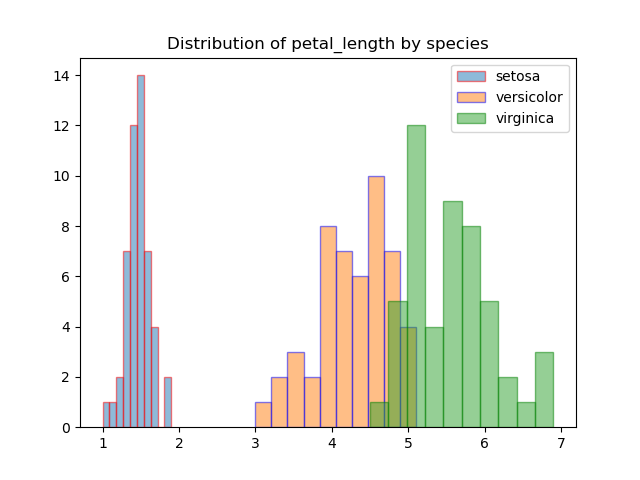
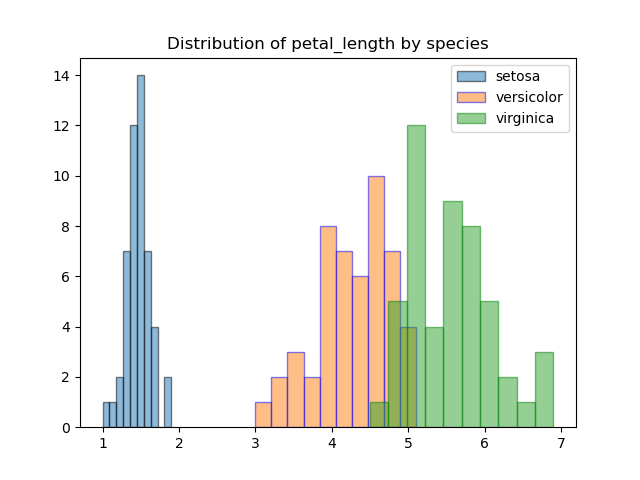
Summary notes, tidying up code and final histogram images

Changed region(s): [[0.1562, 0.1562, 0.2812, 0.9062], [0.7188, 0.125, 0.7812, 0.1875]]

diff --git a/histogram.py b/histogram.py
@@ -10,7 +10,7 @@ import seaborn as sns
 iris_csv = pd.read_csv("iris.csv")
 iris_csv = np.array(iris_csv)
 
-# creates a set filter for each variable
+# creates a set filter for each variable, method came from the Tutorials Point link in the README
 set_filter = iris_csv[:,4]=="setosa"
 ver_filter = iris_csv[:,4]=="versicolor"
 vir_filter = iris_csv[:,4]=="virginica"
@@ -20,8 +20,16 @@ set_data = iris_csv[set_filter]
 ver_data = iris_csv[ver_filter]
 vir_data = iris_csv[vir_filter]
 
-# assigns each variable a value, with the user-selected item to be defined as the y-axis in the resulting box-and-whisker
-# if you want these in the same order as in distribution.py, you'll need to add headers back into the filtered items, then you'll be able to ref them
+# input for user to select which variable they wish to see
+userInput = int(input("Select a variable from the list to view its distribution (0: sepal length, 1: sepal width, 2: petal length, 3: petal width): "))
+
+# one histogram per variable, plotted on a single chart
+plt.hist(set_data[0:,userInput], alpha=0.5, edgecolor="black", label="setosa")
+plt.hist(ver_data[0:,userInput], alpha=0.5, edgecolor="blue", label="versicolor")
+plt.hist(vir_data[0:,userInput], alpha=0.5, edgecolor="green", label="virginica")
+
+# a dictionary of varible names for use in the title of the plot amd the saved filename
+# if you want these in the same order as in distribution.py, you'll need to add headers back into the filtered items, then you'll be able to reference
 varIndex = {
     0: "sepal_length",
     1: "sepal_width",
@@ -29,19 +37,11 @@ varIndex = {
     3: "petal_width"
     }
 
-# input for user to select which variable they wish to see
-userInput = int(input("Select a variable from the list to view its distribution (0: sepal length, 1: sepal width, 2: petal length, 3: petal width): "))
-
-# one histogram per variable, plotted on a single chart
-plt.hist(set_data[0:,userInput], alpha=0.5, edgecolor="red", label="setosa")
-plt.hist(ver_data[0:,userInput], alpha=0.5, edgecolor="blue", label="versicolor")
-plt.hist(vir_data[0:,userInput], alpha=0.5, edgecolor="green", label="virginica")
-plt.title(f"Distribution of {varIndex[userInput]} by species")
-plt.legend()
-
-# saves a filename that includes the user's selected variable name to a child directory of the current directory
+# saves a filename that includes the user's selected variable name (from the dictionary above) to a child directory of the current directory
 # this method of generating a unique filename and saving it to a separate location both came from a StackOverflow article in the README
 filename = f"hist_{varIndex[userInput]}.png"
 path = "./images/"
 filepath = os.path.join(path, filename)
+plt.title(f"Distribution of {varIndex[userInput]} by species")
+plt.legend()
 plt.savefig(filepath)

diff --git a/README.md b/README.md
@@ -15,14 +15,25 @@ There is also an argument, summarised nicely by Timothée Poisot at [Armchair Ec
 
 The data itself consists of the length and width of two separate parts of an iris flower, the petal and the sepal. Fisher and his research partner Anderson measured 150 individuals plants, and these are divided evenly between three species of iris: setosa, versicolor and virginica. The overall conclusion of the data as presented by Fisher was that while one species, iris setosa, can be distinguished from the others by assessing any of the four variables presented, there are varying degrees of uncertainty between iris versicolor and iris virginica.
 
-## Findings 
+## Methodology and Findings
 
 As expected, there will be no ground-breaking contribution to the fields of botany or biology within this GitHub repository. Within my initial investigations, a [scatter plot](https://en.wikipedia.org/wiki/Iris_flower_data_set) on the dataset's Wikipedia page provided a compact summary of this data, which I have attempted to reproduce in the [pairplot](pairplot.py) program. >>> Description of seaborn process, this was actually the last task I accomplished.
 
-findings arising from [analysis](analysis.py)
+### Findings arising from [analysis](analysis.py)
 
-findings arising from [distribution](distribution.py)
+>>>
 
+### Findings arising from [histogram](histogram.py)
+
+Using guidance from the initial project brief, I then attempted to create a histogram that would display the distribution of measurements by variable. Similar to analysis.py, I used the pandas read_csv function and the numPy array function, and then created a unique dataset for each species by filtering and slicing the original dataset, and assigning this to a new variable. A user-inputted selection determines the variable to be plotted, a filename is determined based on this selection, and os.path.join is used to add the completed plot to the images sub-folder. The histograms are probably best used when plotting a single variable, or multiple-variables that do not overlap, but I found that I had to customise the settings of the plots (see the Geeksforgeeks article in the Formatting Plots section of the References below) to get overlapping data even remotely visible, particular when plotting sepal data.
+
+### Findings arising from [distribution](distribution.py)
+
+>>>
+
+### Findings arising from [summary](summary.pp)
+
+>>>
 
 ## Software Packages
 
@@ -45,43 +56,42 @@ All analysis within this project was undertaken using Python, specifically the b
 
 ## References
 
-Isolating specific columns in a numPy array:
+### Isolating specific columns in a numPy array:
 - Zach (2021) How to Get Specific Column from NumPy Array. Statology. URL: https://www.statology.org/numpy-get-column/
 
-Reading CSV files in matplotlib:
+### Reading CSV files in matplotlib:
 - Tutorial Points (n.d.) Plot data from CSV file with Matplotlib. URL: https://www.tutorialspoint.com/plot-data-from-csv-file-with-matplotlib
 - W3Schools (n.d.) Matplotlib Tutorial. URL: https://www.w3schools.com/python/matplotlib_intro.asp
 
-Plotting items by group:
+### Plotting items by group:
 - W3Schools (n.d.) Matplotlib Scatter. URL: https://www.w3schools.com/python/matplotlib_scatter.asp
 
-Filtering with pandas: 
-- Tutorials Point (n.d.) Filter the rows – Python Pandas. URL: https://www.tutorialspoint.com/filter-the-rows-python-pandas
+### Filtering with pandas: 
 - Python and R Tips (2018) How To Filter Pandas Dataframe By Values of Column? URL: https://cmdlinetips.com/2018/02/how-to-subset-pandas-dataframe-based-on-values-of-a-column/
+- Tutorials Point (n.d.) Filter the rows – Python Pandas. URL: https://www.tutorialspoint.com/filter-the-rows-python-pandas
 
-Subplots:
+### Subplots:
 - GeeksforGeeks (2021) Plot multiple plots in Matplotlib. URL: https://www.geeksforgeeks.org/plot-multiple-plots-in-matplotlib/
 
-Formatting plots:
+### Formatting plots:
+- GeeksforGeeks (2020) How to plot two histograms together in Matplotlib? URL: https://www.geeksforgeeks.org/how-to-plot-two-histograms-together-in-matplotlib/
 - Matplotlib (n.d.) matplotlib.pyplot.ylabel — Matplotlib 3.5.1 documentation. URL: https://matplotlib.org/stable/api/_as_gen/matplotlib.pyplot.ylabel.html
-Context on dataset:
-- Cui, Y. (2020) The Iris Dataset — A Little Bit of History and Biology. Medium. URL: https://towardsdatascience.com/the-iris-dataset-a-little-bit-of-history-and-biology-fb4812f5a7b5.
 
-Colour-blind-friendly colour palette: 
+### Colour-blind-friendly colour palette: 
 - Color Hex (n.d.) color-blind-friendly Color Palette. URL: https://www.color-hex.com/color-palette/49436
 
-Seaborn tutorial
+### Seaborn tutorial
 - AskPython (2020) Python Seaborn Tutorial. URL: https://www.askpython.com/python-modules/python-seaborn-tutorial
 
-Saving files in a new location:
- 
+### Saving files in a new location:
 - Stack Overflow (2012) filesystems - Python: how do I save a file in a different directory? URL: https://stackoverflow.com/questions/13825719/python-how-do-i-save-a-file-in-a-different-directory
 
-Data source and context:
+### Data source and context:
+- Cui, Y. (2020) The Iris Dataset — A Little Bit of History and Biology. Medium. URL: https://towardsdatascience.com/the-iris-dataset-a-little-bit-of-history-and-biology-fb4812f5a7b5
 - Machine Learning Repository: Iris Data Set (1988) University of California at Irvine. URL: https://archive.ics.uci.edu/ml/datasets/iris
 - Poissot, T. (2020) It’s time to retire the iris dataset. Armchair Ecology. URL: https://armchairecology.blog/iris-dataset/
 
-General documentation:
+### General documentation:
 - Matplotlib (n.d.) Matplotlib 3.5.1 documentation. URL: https://matplotlib.org/3.5.1/index.html
 - NumPy (n.d.) Overview — NumPy v1.19 Manual. URL: https://numpy.org/doc/stable/
 - Pandas (n.d.) pandas 1.0.1 documentation. URL: https://pandas.pydata.org/docs/
